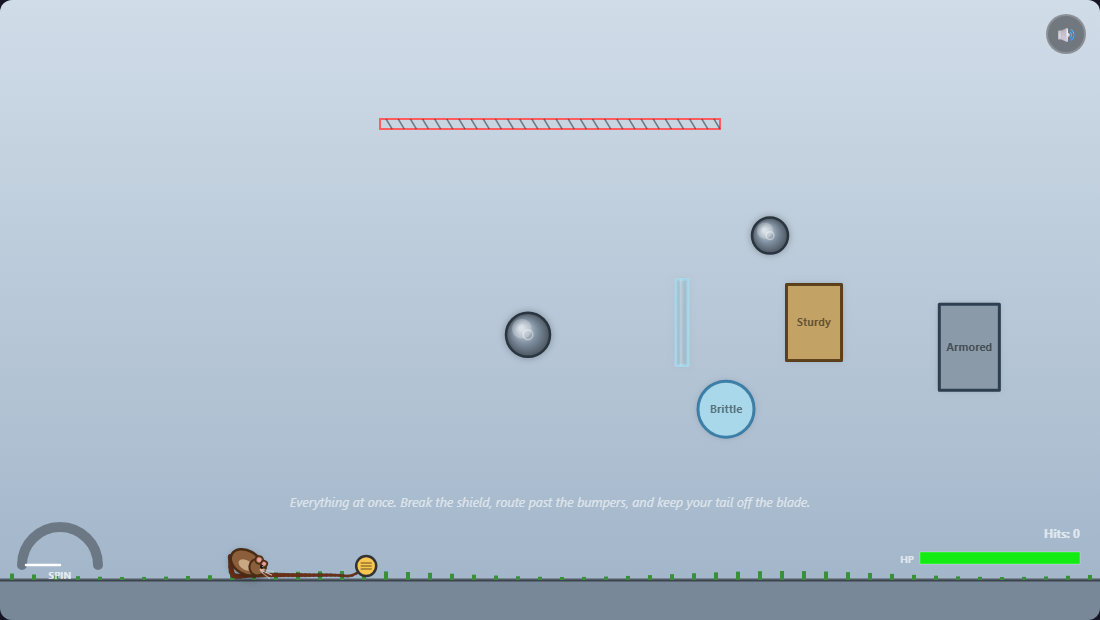
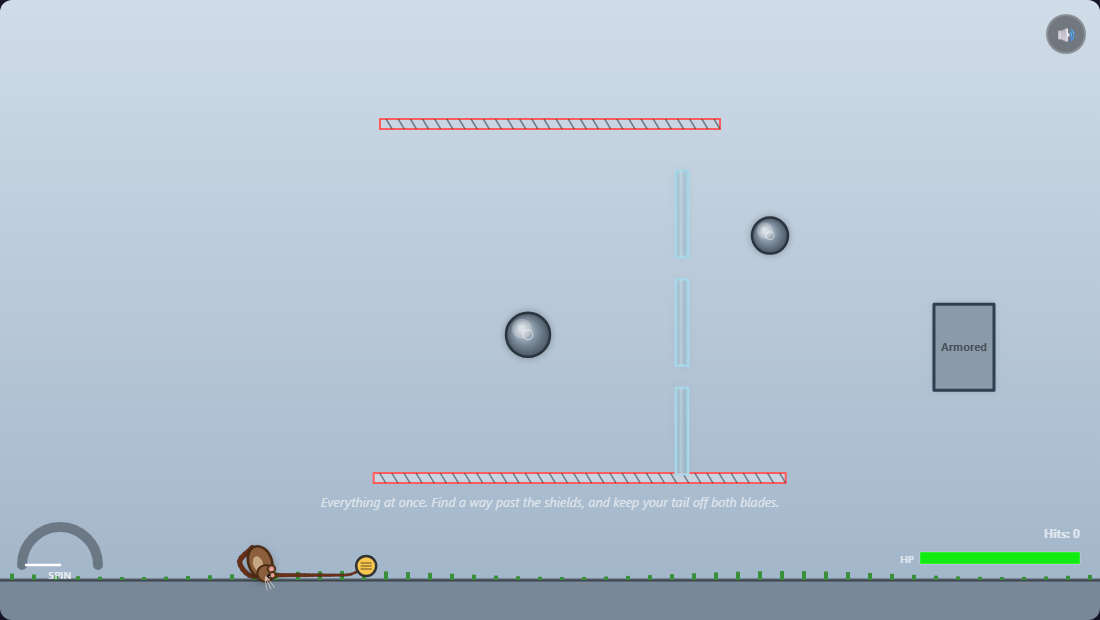
feat(levels): re-lay L12 to the sketch - floor blade, shield column, one target
From temp/level 12 feedback.png: a second blade along the floor (x 0.527, y 0.771, w 412), the single light shield extended to a column of three (y 0.345 / 0.52 / 0.695), and the wood rectangle and glass circle removed, leaving the moving steel target. The column blocks the direct line without gating it - above and below stay open - so it shapes the approach rather than denying it.

The floor blade is deliberately brutal and that is a decision taken with the measurement in hand: it cuts 8 of 8 bot runs at tail speeds of 405-565 against its 200 threshold, because the tail whips through the low arc it spans. Shortening it and raising it to ~600 were both offered and declined. The finale is therefore exempt from rule 7, and the level comment says what would show it working - a human cut rate that falls across attempts, not a flat one.

The gate's finale case moves to L9 (zone + shields): the bot cannot clear L12 by design, so L12 cannot carry a case that asserts SHATTER. Gate 121/121, 129 unit tests, screenshot matches the sketch.

Claude-Session: https://claude.ai/code/session_01NchcA5yUPocbACojdXFgVS

diff --git a/js/levels.js b/js/levels.js
@@ -333,14 +333,37 @@ export const LEVELS = [
     hint: 'A blade across your path. It will not touch the rat - but whip your tail through it and you lose.',
   },
   {
-    // MIXED finale: everything taught outside the zone - a shield, bumpers, a
-    // moving target, a blade - and three targets. The blade is the act's
-    // harshest (cutSpeed 90, which cut 1 of 6 runs at 94 on 2026-09-19) because
-    // lethality ramps INTO the finale, not out of the introduction.
+    // MIXED finale: everything taught outside the zone - shields, bumpers, a
+    // moving target, blades - against ONE target, so the level is about the
+    // route rather than the choice of thing to hit. Re-laid 2026-09-20 from a
+    // player sketch (temp/level 12 feedback.png): the wood rectangle and glass
+    // circle are gone, the single light shield became a column of three, and a
+    // second blade runs along the floor.
     //
-    // The shield is LIGHT. On the old finale it was an unzoned medium at 70 and
-    // broke in 0 of 4 runs, fastest arrival 69 - a shield nobody could open.
-    // Working if: the act's highest cut rate, with clears still >= 70%.
+    // The shield column blocks the DIRECT line to the target without gating it -
+    // above and below it are open - so it shapes the approach rather than
+    // denying it. That is deliberate: rule 6 forbids gating a lone target behind
+    // anything but a reliably breakable shield, and a finale should not hinge on
+    // one break.
+    //
+    // Blades: overhead at cutSpeed 90 (it cut 1 of 6 runs at tail speed 94 on
+    // 2026-09-19, and 0 of 6 on 2026-09-20), floor at 200.
+    //
+    // THE FLOOR BLADE IS DELIBERATELY BRUTAL, and this is a design decision the
+    // player took on 2026-09-20 with the measurement in front of them, not an
+    // untuned number. It spans the whole low arc, and the tail whips through
+    // there at 400-565 px/step, so 8 of 8 bot runs were cut on it - and the bot
+    // is the tame swinger that cut 0/8 where humans cut 45%. Any threshold below
+    // whip speed means "never let the tail drop", which is what this finale now
+    // asks. Raising it to ~600 would clear every crossing measured and make it
+    // decoration, the failure the old L8 blade had; shortening it was offered
+    // and declined.
+    //
+    // So the usual rule-7 "hazards arrive gently" does not apply to this level:
+    // it is the end of the campaign and it is meant to bite. Working if: players
+    // learn a route that keeps the tail high - human cut rate falling across
+    // attempts rather than staying flat. If it stays flat, the level is asking
+    // for something unlearnable and the span, not the threshold, is the dial.
     id: 12,
     kind: 'mixed',
     act: 3,
@@ -352,12 +375,16 @@ export const LEVELS = [
     pushStringLength: 170,
     blades: [
       { x: 0.50, y: 0.20, w: 340, h: 10, cutSpeed: 90 },
+      // The floor blade. Every run starts under it - the rat is picked up off
+      // the ground below - so it is crossed at least once at near-zero speed,
+      // which is exactly what a speed gate is for. 200 while unmeasured.
+      { x: 0.527, y: 0.771, w: 412, h: 10, cutSpeed: 200 },
     ],
     targets: [
-      { shape: 'rectangle', w: 55, h: 76, x: 0.74, y: 0.52, material: 'wood' },
-      { shape: 'circle', r: 28, x: 0.66, y: 0.66, material: 'glass' },
       { shape: 'rectangle', w: 60, h: 86, x: 0.86, y: 0.56, material: 'steel', movement: { axis: 'x', range: 0.03, period: 2.0 } },
+      { shape: 'rectangle', w: 12, h: 86, x: 0.62, y: 0.345, isShield: true, shieldTier: 'light' },
       { shape: 'rectangle', w: 12, h: 86, x: 0.62, y: 0.52, isShield: true, shieldTier: 'light' },
+      { shape: 'rectangle', w: 12, h: 86, x: 0.62, y: 0.695, isShield: true, shieldTier: 'light' },
     ],
     bumpers: [
       { x: 0.48, y: 0.54, radius: 22 },
@@ -365,7 +392,7 @@ export const LEVELS = [
     ],
     parScore: 2800,
     pushParScore: 3000,
-    hint: 'Everything at once. Break the shield, route past the bumpers, and keep your tail off the blade.',
+    hint: 'Everything at once. Find a way past the shields, and keep your tail off both blades.',
   },
 ];
 
